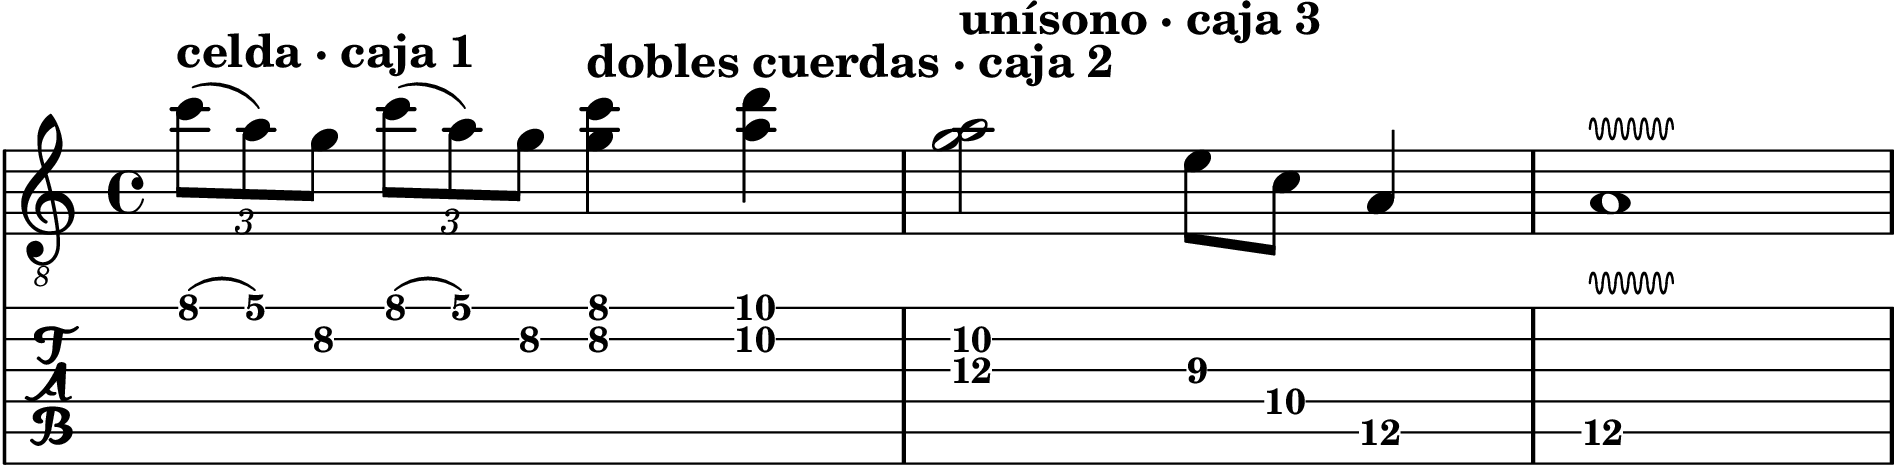
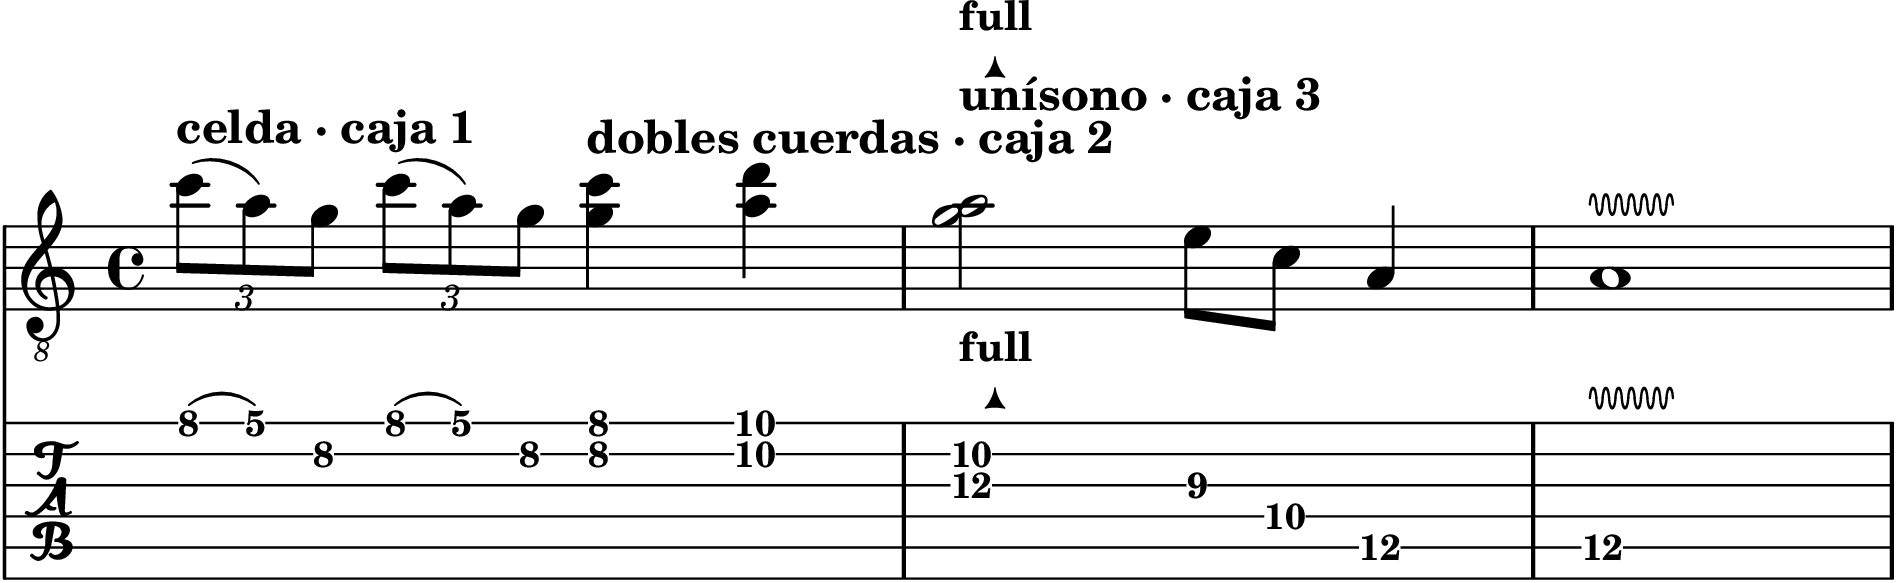
Fix ej. 38: agregar marca de bending full en el unísono (caja 3)
El acorde unísono <g'\3 a'\2> bendea el traste 12 de la 3ª cuerda hasta
igualar el traste 10 de la 2ª. Faltaba la marca \bendFull en la fuente
(a diferencia del ej. 37, que tiene el mismo recurso y sí la lleva).
Se regenera e38.cropped.png para reflejar el cambio.

Changed region(s): [[0.0, 0.0, 1.0, 0.9593], [0.0, 0.9893, 1.0, 1.0]]

diff --git a/scripts/gen_scores_h3.py b/scripts/gen_scores_h3.py
@@ -70,7 +70,7 @@ EJ["e37"] = r"""
 EJ["e38"] = r"""
   \tuplet 3/2 { c''8\1^\markup{\bold "celda · caja 1"}( a'\1) g'\2 } \tuplet 3/2 { c''8\1( a'\1) g'\2 }
   <g'\2 c''\1>4^\markup{\bold "dobles cuerdas · caja 2"} <a'\2 d''\1>4 |
-  <g'\3 a'\2>2^\markup{\bold "unísono · caja 3"} e'8\3 c'\4 a4\5 |
+  <g'\3 a'\2>2^\markup{\bold "unísono · caja 3"} \tabSym \bendFull e'8\3 c'\4 a4\5 |
   a1\5 \tabSym \vib |
 """
 
